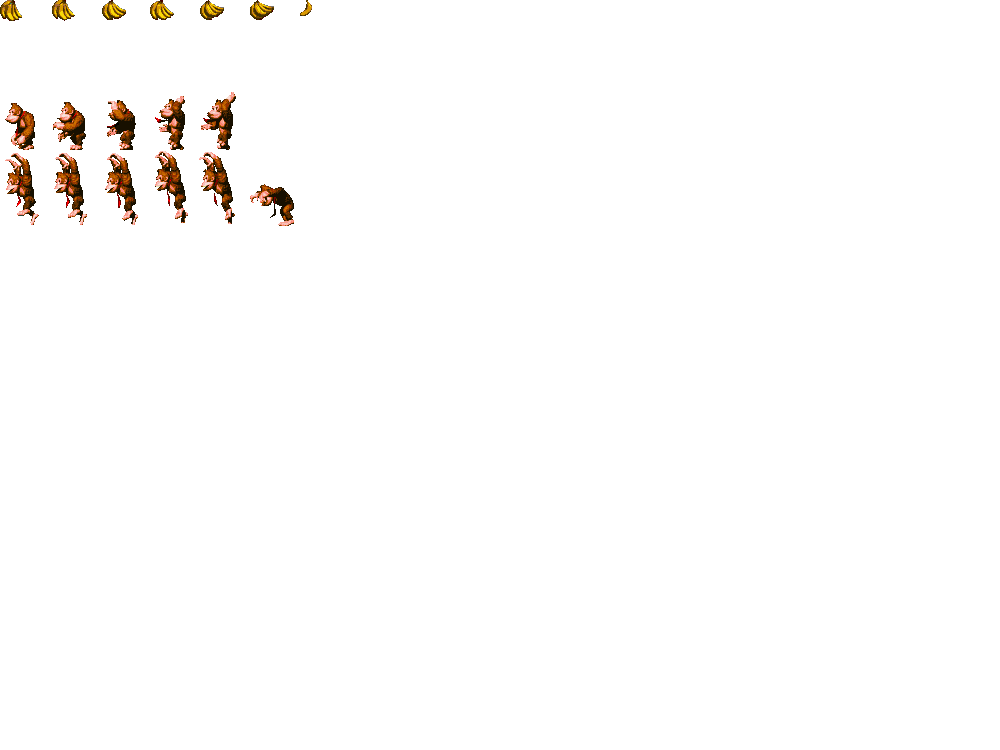
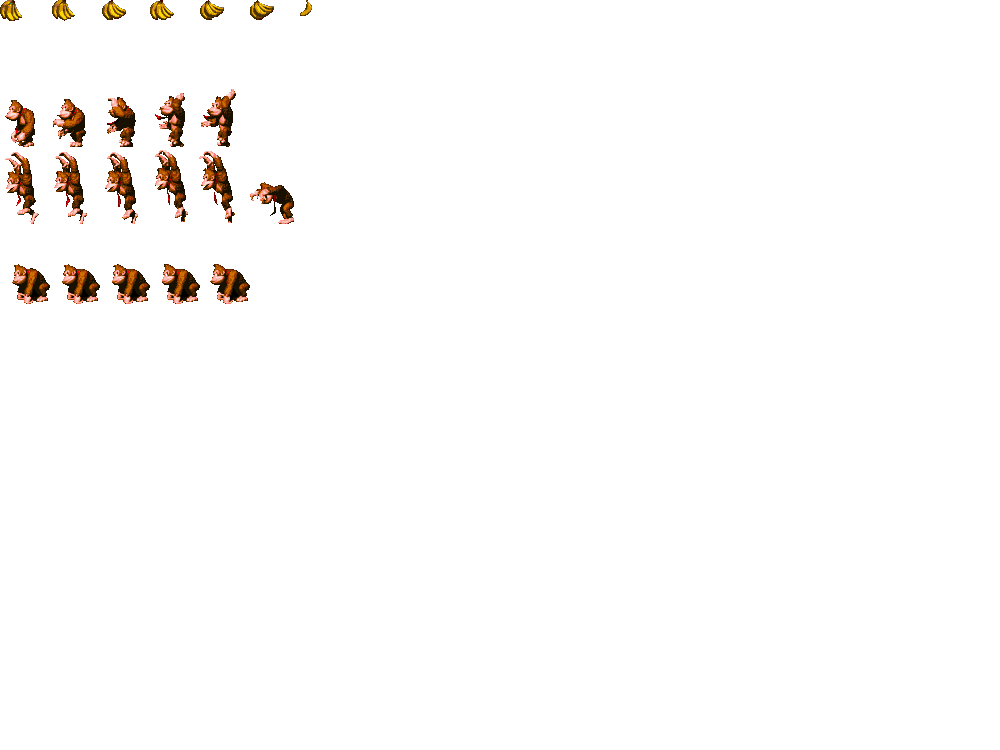
Fixed Class Inheritance

Changed region(s): [[0.0, 0.1227, 0.31, 0.3067], [0.0, 0.3373, 0.248, 0.4293]]

diff --git a/src/gdk.js b/src/gdk.js
@@ -19,11 +19,11 @@ j5g3.GDK = {
 
 		init: function(p)
 		{
-			
+			this.STATES = {};
 			this._super(p);
 		},
 
-		keyboard: function()
+		keyboard: function(key)
 		{
 		var
 			KEYS = this.KEYS,
@@ -40,7 +40,26 @@ j5g3.GDK = {
 		 */
 		states: function(states)
 		{
-			
+		var 
+			me = this,
+			frames = [],
+			STATES = me.STATES, 
+			i,
+			ss = me.__spritesheet
+		;
+			for (i in states)
+				if (states.hasOwnProperty(i))
+				{
+					STATES[i] = frames.length;
+					frames.push([ ss.clip_array(states[i]) ]);
+				}
+
+			return me.__frames = frames;
+		},
+
+		go_state: function(name)
+		{
+			this.go(this.STATES[name] || 0);
 		}
 
 	}).properties({

diff --git a/www/examples/gorilla/gorilla.js b/www/examples/gorilla/gorilla.js
@@ -3,7 +3,26 @@ function game($, doc)
 {
 var
 	ss = $.spritesheet('ss').grid(20,10),
-	gorilla = ss.clip(20, 21, 22, 23, 24, 23, 22, 21).pos(100,100).scaleT(2.5),
+
+	Gorilla = $.GDK.User.extend({
+		
+		init: function(p)
+		{
+			this._super(p);
+
+			this.spritesheet(ss);
+			this.states({
+				idle: [ 60, 61, 62, 63, 64 ],
+				shoot: [ 20, 21, 22, 23, 24, 23, 22, 21 ]
+			});
+
+			this.__frames[0][0].scaleT(3);
+			this.stop();
+		}
+
+	}),
+
+	gorilla = (new Gorilla()).pos(100,100).scaleT(2.5),
 	txt = $.text("hello").fillStyle('white')
 ;
 

diff --git a/src/Class.js b/src/Class.js
@@ -48,8 +48,9 @@ j5g3.Class.extend = function(methods, static_methods)
 	init.properties = Class.properties;
 	init.extend = Class.extend;
 
+	init.parent = _super;
 	init.prototype._super = function() { 
-		return _super.apply(this, arguments);
+		return arguments.callee.caller.parent.apply(this, arguments);
 	}
 
 	return init;

diff --git a/www/examples/gorilla/index.html b/www/examples/gorilla/index.html
@@ -2,6 +2,7 @@
 <head>
 	<title>JSGE - Gorilla.JS</title>
 	<script src="../../j5g3-dbg.js"></script>
+	<script src="../../j5g3-gdk.js"></script>
 	<script src="gorilla.js"></script>
 
 	<link rel="stylesheet" href="../../styles.css" />

diff --git a/www/examples/isometric.js b/www/examples/isometric.js
@@ -60,7 +60,7 @@ var
 	
 	$.canvas.onmousemove = function(evt)
 	{
-		var p = map.getCoord(evt.offsetX, evt.offsetY); 
+		var p = map.getIsometricCoords(evt.offsetX, evt.offsetY); 
 		if (prev)
 			map.__map[prev[1]][prev[0]] = prevv;
 

diff --git a/src/core.js b/src/core.js
@@ -53,6 +53,10 @@ $ = window.j5g3 = /** @namespace */ j5g3 =  {
 		process = setInterval($.gameLoop, __fps);
 	},
 
+	warning: function()
+	{
+	},
+
 	/**
 	 * This is here to allow overriding by Debug.js
 	 */

diff --git a/src/Debug.js b/src/Debug.js
@@ -30,6 +30,11 @@
 		DebugFPS.draw(); //$.context); 
 	};
 
+	$.warning = function(msg)
+	{
+		window.console.warn(msg);
+	}
+
 })(j5g3);
 
 
